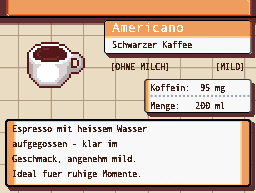
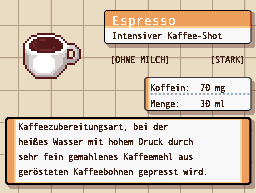
Text der Detailseiten über JSON veränderbar machen

diff --git a/kaffee-fragebogen/tools/gen_kaffeedex.py b/kaffee-fragebogen/tools/gen_kaffeedex.py
@@ -1,0 +1,107 @@
+#!/usr/bin/env python3
+"""
+Baut die drei Kaffeedex-Bilder (Pokedex-Stil, oberer Bildschirm) aus dem
+leeren Template `sprites/kaffeedex.png` + Text/Icon fuer jede Kaffeeart.
+
+Texte aendern: tools/kaffeedex_content.json bearbeiten, dann dieses Skript
+neu ausfuehren:
+
+    python3 tools/gen_kaffeedex.py
+
+Erzeugt gfx/kaffeedex_<name>.png fuer jeden Eintrag in der JSON-Datei.
+Danach `make` im Projekt neu ausfuehren, damit grit die neuen PNGs
+einbindet.
+"""
+
+import json
+from pathlib import Path
+
+from PIL import Image, ImageDraw, ImageFont
+
+ROOT = Path(__file__).resolve().parent.parent
+TEMPLATE_PATH = ROOT / "sprites" / "kaffeedex.png"
+CONTENT_PATH = ROOT / "tools" / "kaffeedex_content.json"
+OUT_DIR = ROOT / "gfx"
+
+FONT_PATH = "/System/Library/Fonts/Supplemental/Andale Mono.ttf"
+AA_THRESHOLD = 70  # niedrig halten, sonst verschwinden duenne Striche (i-Punkte etc.)
+
+DARK = (60, 30, 20, 255)
+ORANGE_TEXT = (255, 250, 240, 255)
+
+# Layout-Koordinaten fuer sprites/kaffeedex.png (256x193). Bei einem neuen
+# Template-Bild hier die Werte anpassen (siehe Analyse im Chat-Verlauf).
+ICON_XY = (20, 27)  # oben links, im Rasterbereich links von Box 2
+NAME_XY = (112, 13)
+NAME_SIZE = 13
+CATEGORY_XY = (112, 30)
+BADGE1_XY = (110, 54)
+BADGE2_RIGHT_EDGE = 245
+BADGE_Y = 54
+STATS_X = 150
+KOFFEIN_Y = 82
+MENGE_Y = 98
+DESC_XY = (18, 121)
+DESC_LINE_HEIGHT = 15
+BODY_SIZE = 9
+
+
+def hard_text_mask(canvas_size, text, font_size):
+    font = ImageFont.truetype(FONT_PATH, font_size)
+    tmp = Image.new("L", canvas_size, 0)
+    d = ImageDraw.Draw(tmp)
+    d.text((0, 0), text, fill=255, font=font)
+    return tmp.point(lambda p: 255 if p > AA_THRESHOLD else 0), font
+
+
+def paste_text(base, xy, text, font_size, color, canvas_size=(240, 24), right_edge=None):
+    mask, font = hard_text_mask(canvas_size, text, font_size)
+    x, y = xy
+    if right_edge is not None:
+        x = right_edge - int(font.getlength(text))
+    solid = Image.new("RGBA", canvas_size, color)
+    base.paste(solid, (x, y), mask)
+
+
+def build(entry, out_path, labels):
+    base = Image.open(TEMPLATE_PATH).convert("RGBA")
+
+    icon = Image.open(ROOT / entry["icon"]).convert("RGBA")
+    ipx = icon.load()
+    for y in range(icon.height):
+        for x in range(icon.width):
+            r, g, b, a = ipx[x, y]
+            if r > 240 and g < 30 and b > 240:  # Magenta-Transparenzfarbe
+                ipx[x, y] = (r, g, b, 0)
+    base.paste(icon, ICON_XY, icon)
+
+    paste_text(base, NAME_XY, entry["name"], NAME_SIZE, ORANGE_TEXT)
+    paste_text(base, CATEGORY_XY, entry["category"], BODY_SIZE, DARK)
+
+    paste_text(base, BADGE1_XY, f"[{entry['badge1']}]", BODY_SIZE, DARK)
+    paste_text(base, (0, BADGE_Y), f"[{entry['badge2']}]", BODY_SIZE, DARK, right_edge=BADGE2_RIGHT_EDGE)
+
+    label_width = max(len(labels["caffeine"]), len(labels["volume"])) + 1  # +1 fuer ":"
+    caffeine_label = f"{labels['caffeine']}:".ljust(label_width)
+    volume_label = f"{labels['volume']}:".ljust(label_width)
+    paste_text(base, (STATS_X, KOFFEIN_Y), f"{caffeine_label} {entry['caffeineMg']:>3} mg", BODY_SIZE, DARK)
+    paste_text(base, (STATS_X, MENGE_Y), f"{volume_label} {entry['volumeMl']:>3} ml", BODY_SIZE, DARK)
+
+    x0, y0 = DESC_XY
+    for i, line in enumerate(entry["descLines"]):
+        if line:
+            paste_text(base, (x0, y0 + i * DESC_LINE_HEIGHT), line, BODY_SIZE, DARK)
+
+    base.save(out_path)
+    print(f"geschrieben: {out_path}")
+
+
+def main():
+    content = json.loads(CONTENT_PATH.read_text())
+    labels = content["labels"]
+    for key, entry in content["drinks"].items():
+        build(entry, OUT_DIR / f"kaffeedex_{key}.png", labels)
+
+
+if __name__ == "__main__":
+    main()
